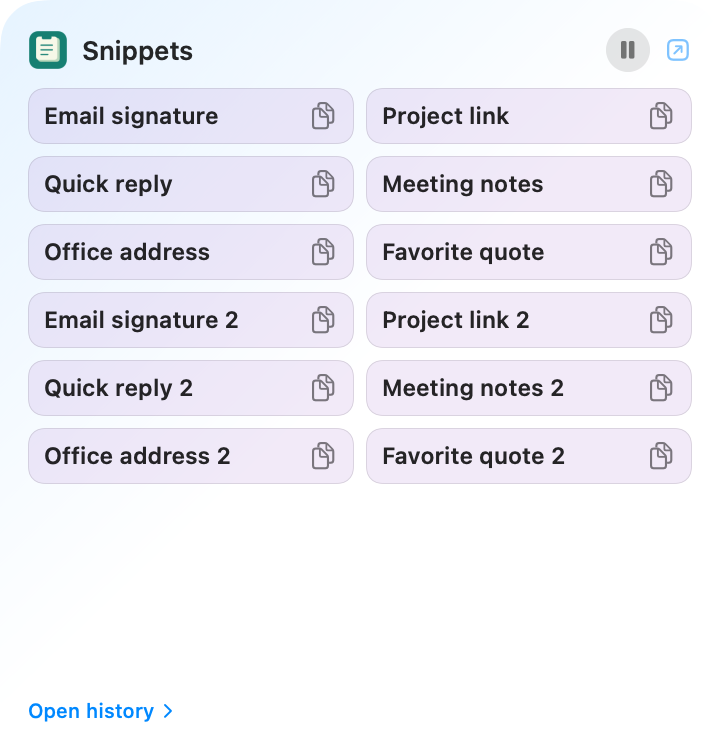
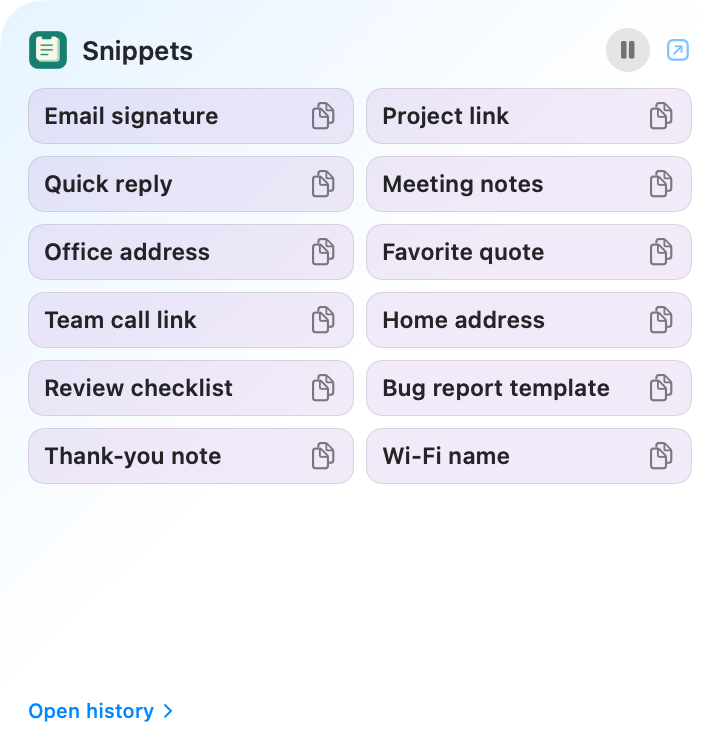
Release 1.1.0: update README and changelog (#14)

diff --git a/tool/render_widget_preview.swift b/tool/render_widget_preview.swift
@@ -17,6 +17,15 @@ struct WidgetPreviewRenderer {
       WidgetFavorite(id: "six", title: "Favorite quote", text: "Make room for good ideas.")
     ]
     let collection = WidgetCollection(id: "snippets", name: "Snippets", items: samples, total: 6)
+    // The Large size shows up to 12 favorites.
+    let more = [
+      WidgetFavorite(id: "seven", title: "Team call link", text: "https://meet.example.com/team"),
+      WidgetFavorite(id: "eight", title: "Home address", text: "12 Lake View Road"),
+      WidgetFavorite(id: "nine", title: "Review checklist", text: "Tests, naming, docs"),
+      WidgetFavorite(id: "ten", title: "Bug report template", text: "Steps, expected, actual"),
+      WidgetFavorite(id: "eleven", title: "Thank-you note", text: "Thanks so much for your help!"),
+      WidgetFavorite(id: "twelve", title: "Wi-Fi name", text: "Studio Guest"),
+    ]
     let variants: [(String, WidgetFamily, Double, Bool, ColorScheme, String?)] = [
       ("small", .systemSmall, 170, false, .light, nil),
       ("medium", .systemMedium, 360, false, .light, nil),
@@ -39,7 +48,7 @@ struct WidgetPreviewRenderer {
       try data.write(to: URL(fileURLWithPath: "widget-medium-paused-preview.png"))
     }
     for (name, family, width, previews, scheme, copied) in variants {
-      let shown = family == .systemLarge ? WidgetCollection(id: "snippets", name: "Snippets", items: samples + samples.map { WidgetFavorite(id: $0.id + "-2", title: $0.title + " 2", text: $0.text) }, total: 12) : collection
+      let shown = family == .systemLarge ? WidgetCollection(id: "snippets", name: "Snippets", items: samples + more, total: 12) : collection
       let entry = FavoritesEntry(date: Date(), collection: shown, enabled: true, showPreviews: previews, copiedID: copied)
       let background = scheme == .dark ? Color(red: 0.12, green: 0.12, blue: 0.13) : Color.white
       let content = FavoritesContentView(entry: entry, family: family)

diff --git a/README.md b/README.md
@@ -20,11 +20,14 @@ A fast, private clipboard manager that lives in your Mac's menu bar.
 ## ✨ Why ClipShelf
 
 - **Never lose a copy.** Text, links, images, rich text, and files are saved automatically.
+- **See what you copied.** Each card shows the app it came from, its size (characters or pixels), and, if you turn it on, a preview of the web page behind a link.
 - **Paste in one click.** Pick a clip and it goes straight into the app you were using.
 - **Built for the keyboard.** <kbd>⌥</kbd><kbd>⌘</kbd><kbd>V</kbd> to open, <kbd>⌘</kbd><kbd>1</kbd>–<kbd>9</kbd> to paste.
-- **Keep what matters.** Save snippets and sort clips into colored pinboards.
+- **Find anything fast.** Start typing to search, and narrow it down with filters for type (Link, Image…), date (Today, Last week…), or app (Safari, Mail…).
+- **Keep what matters.** Save snippets and sort clips into colored pinboards: just drag a card onto a pinboard.
 - **Screenshots included.** Screenshots you take are copied and saved to your history.
-- **Favorites on your desktop.** A widget puts your snippets one click away (macOS 14+).
+- **Favorites on your desktop.** A widget in three sizes puts your snippets or a pinboard one click away, with a Pause button for capture (macOS 14+).
+- **Looks at home on your Mac.** Liquid Glass on macOS 26, a frosted window on earlier versions, and light or dark to match macOS.
 - **Private by design.** Everything stays on your Mac. No account, no server, no tracking.
 
 ## 🖼 A look inside
@@ -34,7 +37,13 @@ A fast, private clipboard manager that lives in your Mac's menu bar.
     <td align="center" width="50%"><img src="menu-bar-preview.png" alt="Menu-bar panel" width="300"><br><b>Menu-bar panel</b><br>Search and paste without leaving your app</td>
     <td align="center" width="50%"><img src="floating-preview.png" alt="Floating panel" width="300"><br><b>Floating panel</b><br>Pin it next to your work</td>
   </tr>
+  <tr>
+    <td align="center" width="50%"><img src="widget-medium-preview.png" alt="Desktop widget" width="300"><br><b>Desktop widget</b><br>Copy a snippet or pinboard item in one click</td>
+    <td align="center" width="50%"><img src="widget-large-dark-preview.png" alt="Large desktop widget in dark mode" width="300"><br><b>Large widget, dark mode</b><br>Up to 12 favorites</td>
+  </tr>
 </table>
+
+<p align="center"><img src="preview-dark.png" alt="The shelf in dark mode" width="820"><br><b>Dark mode</b> follows your Mac.</p>
 
 ## 🚀 Install
 
@@ -72,11 +81,12 @@ Open **System Settings → Privacy & Security → Accessibility** and turn on **
 | <kbd>⌥</kbd><kbd>⌘</kbd><kbd>V</kbd> | Open the shelf |
 | <kbd>⌘</kbd><kbd>1</kbd> … <kbd>⌘</kbd><kbd>9</kbd> | Paste one of the first nine clips |
 | <kbd>Return</kbd> | Paste the selected clip |
-| <kbd>⌘</kbd><kbd>F</kbd> | Search |
+| <kbd>⌘</kbd><kbd>F</kbd> or just start typing | Search |
+| <kbd>↓</kbd> <kbd>Return</kbd> or <kbd>Tab</kbd> in search | Add the highlighted filter (Link, Last week, Safari…) |
 | <kbd>Space</kbd> | Preview |
 | <kbd>⌘</kbd><kbd>N</kbd> | New snippet |
 | <kbd>⇧</kbd><kbd>⌘</kbd><kbd>N</kbd> | New pinboard |
-| <kbd>Esc</kbd> | Hide |
+| <kbd>Esc</kbd> | Step back: close the filter list, clear and close search, then hide |
 
 ClipShelf has no Dock icon. Find it in the menu bar, and right-click the icon for Pause and Quit.
 
@@ -88,6 +98,15 @@ ClipShelf has no Dock icon. Find it in the menu bar, and right-click the icon fo
 <br>
 
 Only on your Mac, in `~/Library/Application Support/ClipShelf/`. By default ClipShelf keeps your 200 most recent clips; in **Preferences → History** you can keep 100 to 1,000 items and have older ones removed automatically after a day, a week or a month. Snippets and pinned items are kept until you delete them.
+
+</details>
+
+<details>
+<summary><b>Does ClipShelf go online?</b></summary>
+
+<br>
+
+Not unless you ask it to. **Link previews** are off by default. If you turn them on in **Preferences → History**, ClipShelf fetches the title and picture of each link you copy, straight from that website, without cookies, and keeps them on your Mac. Nothing else leaves your Mac.
 
 </details>
 
@@ -105,7 +124,7 @@ ClipShelf skips copies that password managers mark as concealed. Some apps don't
 
 <br>
 
-On macOS 14 or later, turn on **Desktop Favorites widget** in ClipShelf's Preferences. Then right-click the desktop, choose **Edit Widgets…**, and add **ClipShelf Favorites**. Right-click the widget → **Edit Widget** to pick Snippets or a pinboard. Click a favorite to copy it. After updating ClipShelf, you may need to remove and re-add the widget.
+On macOS 14 or later, turn on **Desktop Favorites widget** in ClipShelf's Preferences. Then right-click the desktop, choose **Edit Widgets…**, and add **ClipShelf Favorites** in the Small, Medium, or Large size. Right-click the widget → **Edit Widget** to pick Snippets or a pinboard. Click a favorite to copy it; the ⏸ button pauses or resumes capture, and **Open history** opens the shelf. After updating ClipShelf, you may need to remove and re-add the widget.
 
 </details>
 

diff --git a/CHANGELOG.md b/CHANGELOG.md
@@ -1,13 +1,34 @@
 # Changelog
 
-## Unreleased
+## 1.1.0 — 2026-11-20
 
-- **Desktop widget:** a Large size (up to 12 favorites), a Pause / Resume button, the app icon in the header, and pinboard colours on the header and tiles.
-- **In-app logo** now matches the app icon.
+A fresh look, smarter cards and search, and the desktop widget in the free download.
+
+### New look
+- **Liquid Glass** window on macOS 26, and a frosted glass window on earlier versions.
+- **Dark mode** that follows macOS, using your system accent colour.
+- **Redesigned cards, shelf, menu-bar panel, Preferences, and dialogs**, with the **Geist** typeface (bundled, so no font downloads).
+- The **in-app logo** now matches the app icon.
+
+### Cards and search
+- **Richer cards:** the icon of the app you copied from, "N characters" for text, the pixel size for images, and the icon and path for files.
+- **Link previews (opt-in):** Preferences → History → *Show link previews* shows the page's title and picture. Off by default; when on, ClipShelf contacts only that website, without cookies.
+- **New-copy animation:** new copies slide in at the front; deleted items shrink away.
+- **Smart search:** start typing to search, and add filters for type, date, or source app as chips.
+
+### Desktop widget
+- **Now works in the free download.** Builds without an App Group share favorites through `~/Library/Application Support/ClipShelf/Widget/`, using a sandbox exception scoped to that folder. Team-signed builds still use their App Group.
+- A **Large** size (up to 12 favorites), a **Pause / Resume** button, the app icon in the header, pinboard colours, and a **Copied** state after a click.
+
+### More
 - **History settings:** Preferences → History adds *Keep history for* (Forever, 1 day, 1 week, 1 month) and *History size* (100–1,000 items), with a storage-used meter.
+- **⌘1–⌘9 work while searching** in the menu-bar panel, which also gets a **New snippet** button.
 - **No more duplicates from repeat ⌘C** in VS Code and other Chromium apps; repeat copies move the existing item to the front.
 - **iCloud sync is marked Coming soon** in Preferences for builds without CloudKit provisioning.
-- **Desktop Favorites widget now works in the free download.** Builds without an App Group share favorites through `~/Library/Application Support/ClipShelf/Widget/`, using a sandbox exception scoped to that folder. Team-signed builds still use their App Group.
+
+### Fixes
+- Closing the shelf after opening it from the widget no longer leaves a ghosted, shifted window behind.
+- Preferences no longer flickers when the panel reopens.
 
 ## 1.0.0 — 2026-11-19
 
